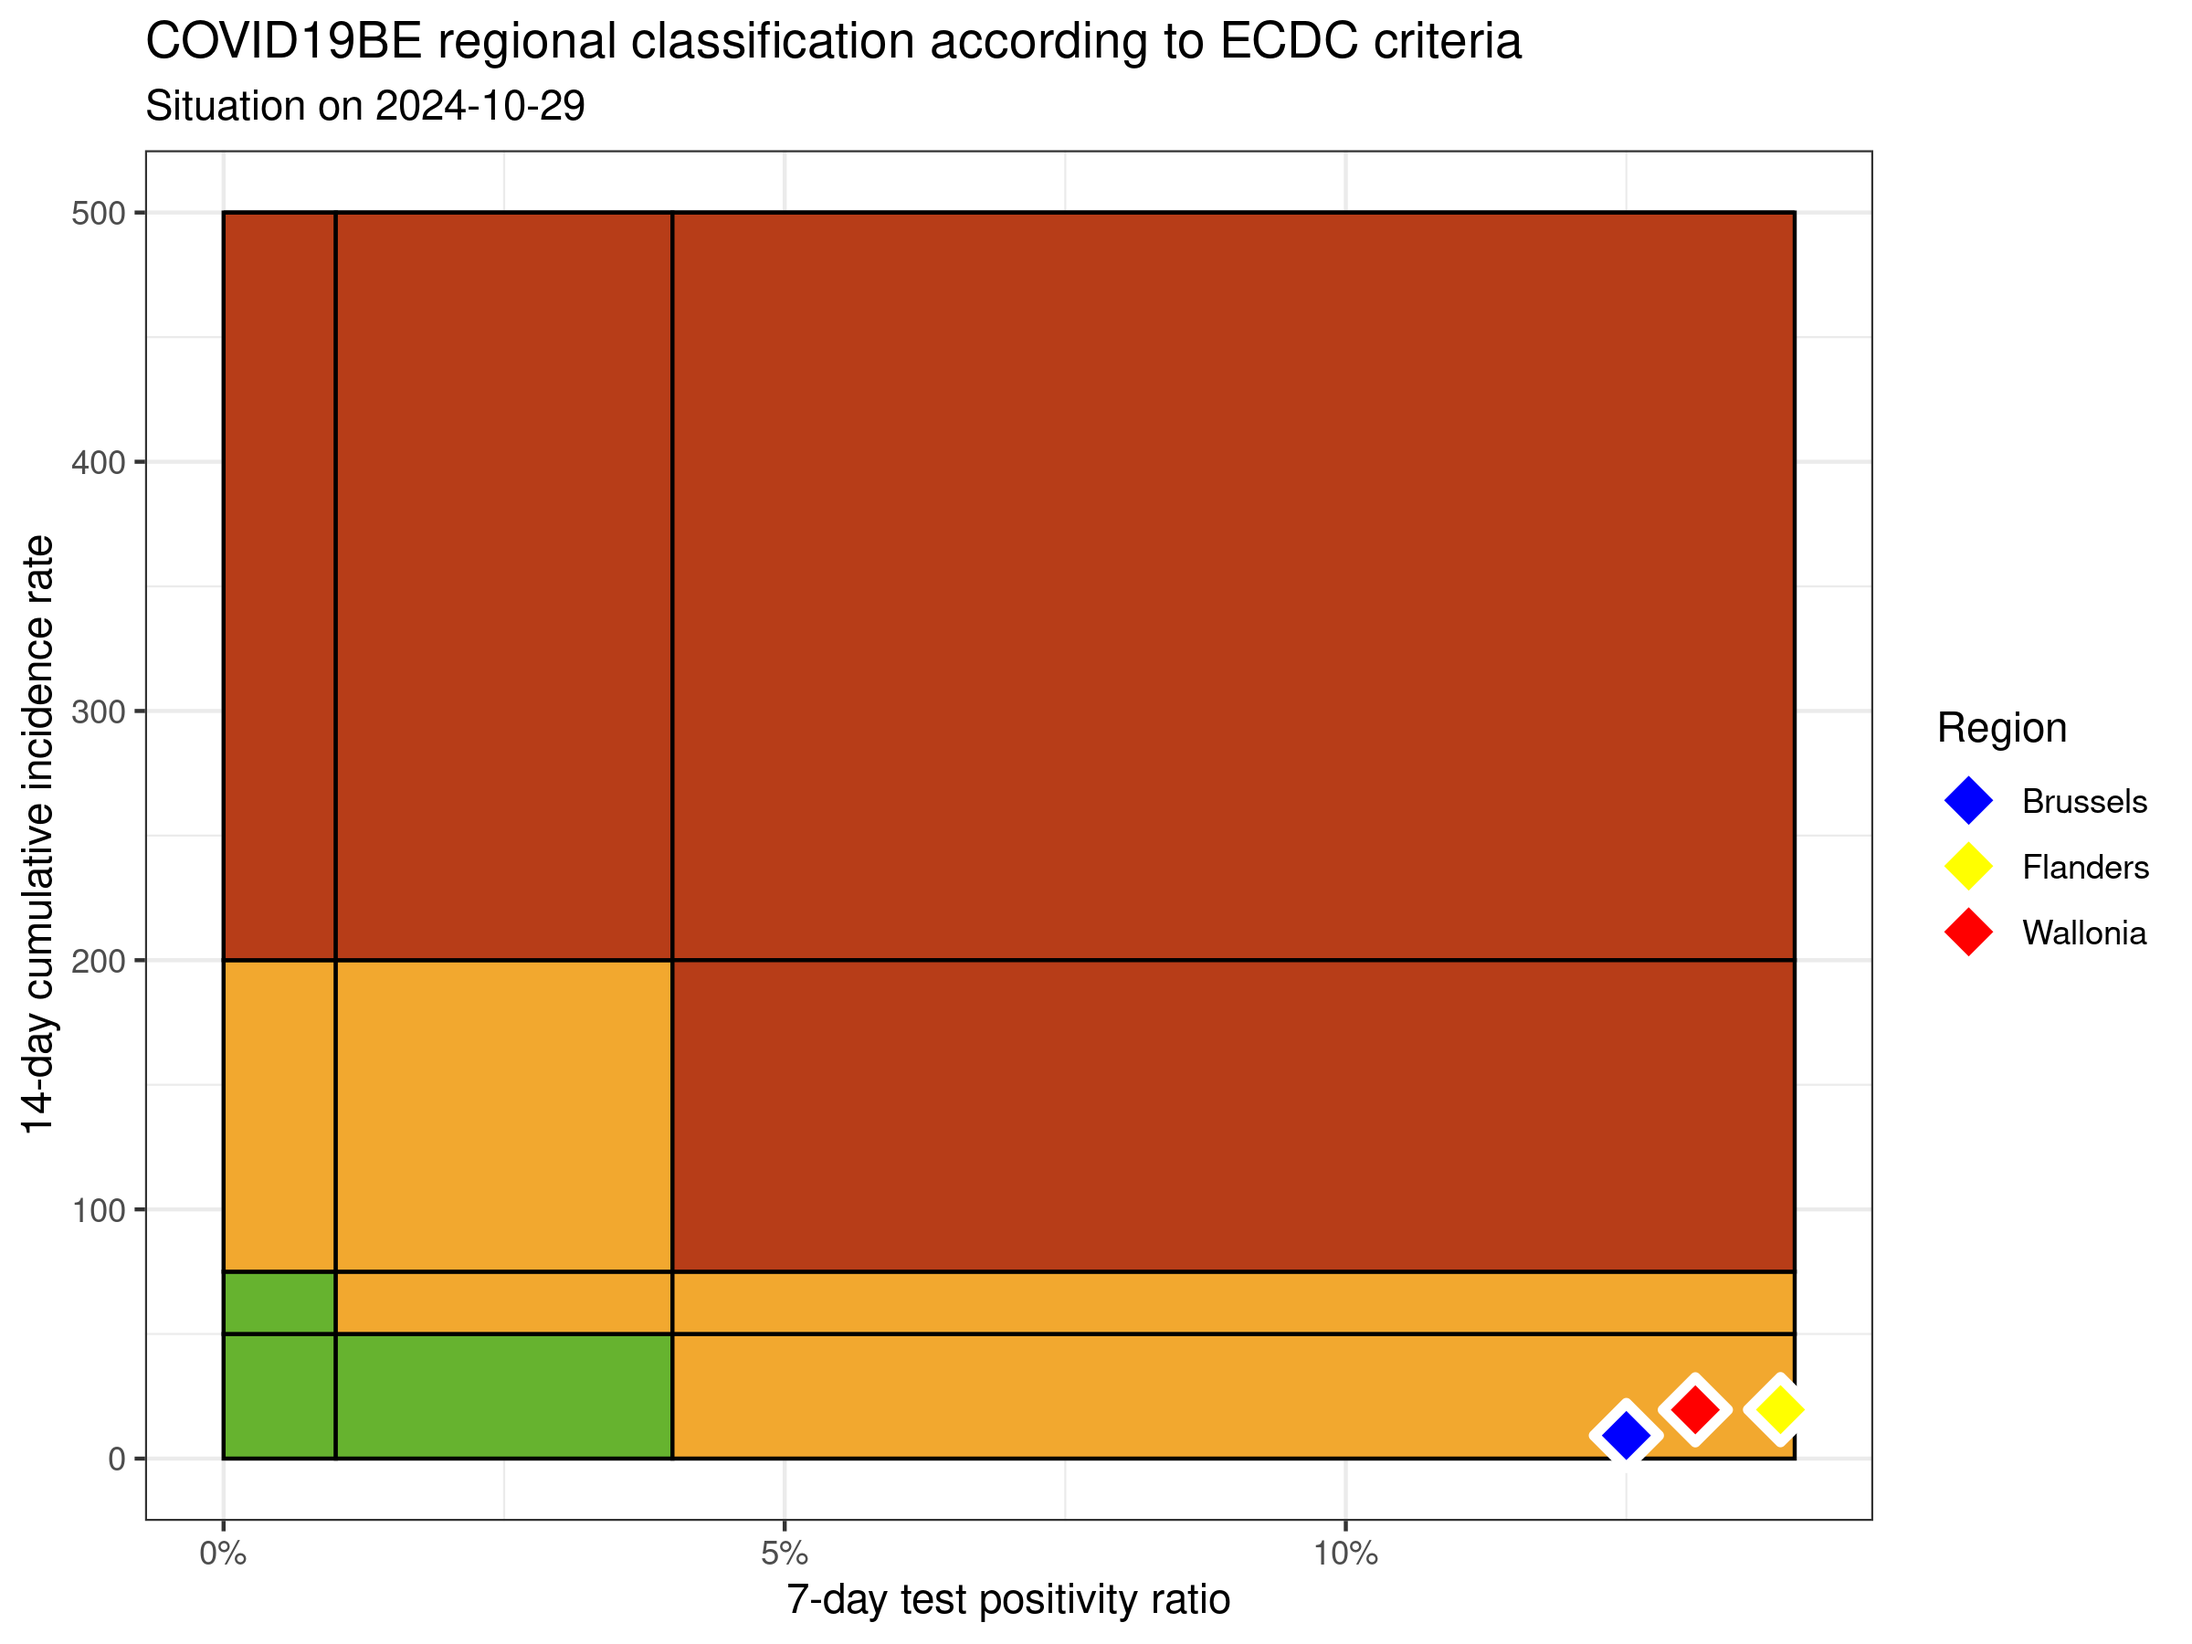
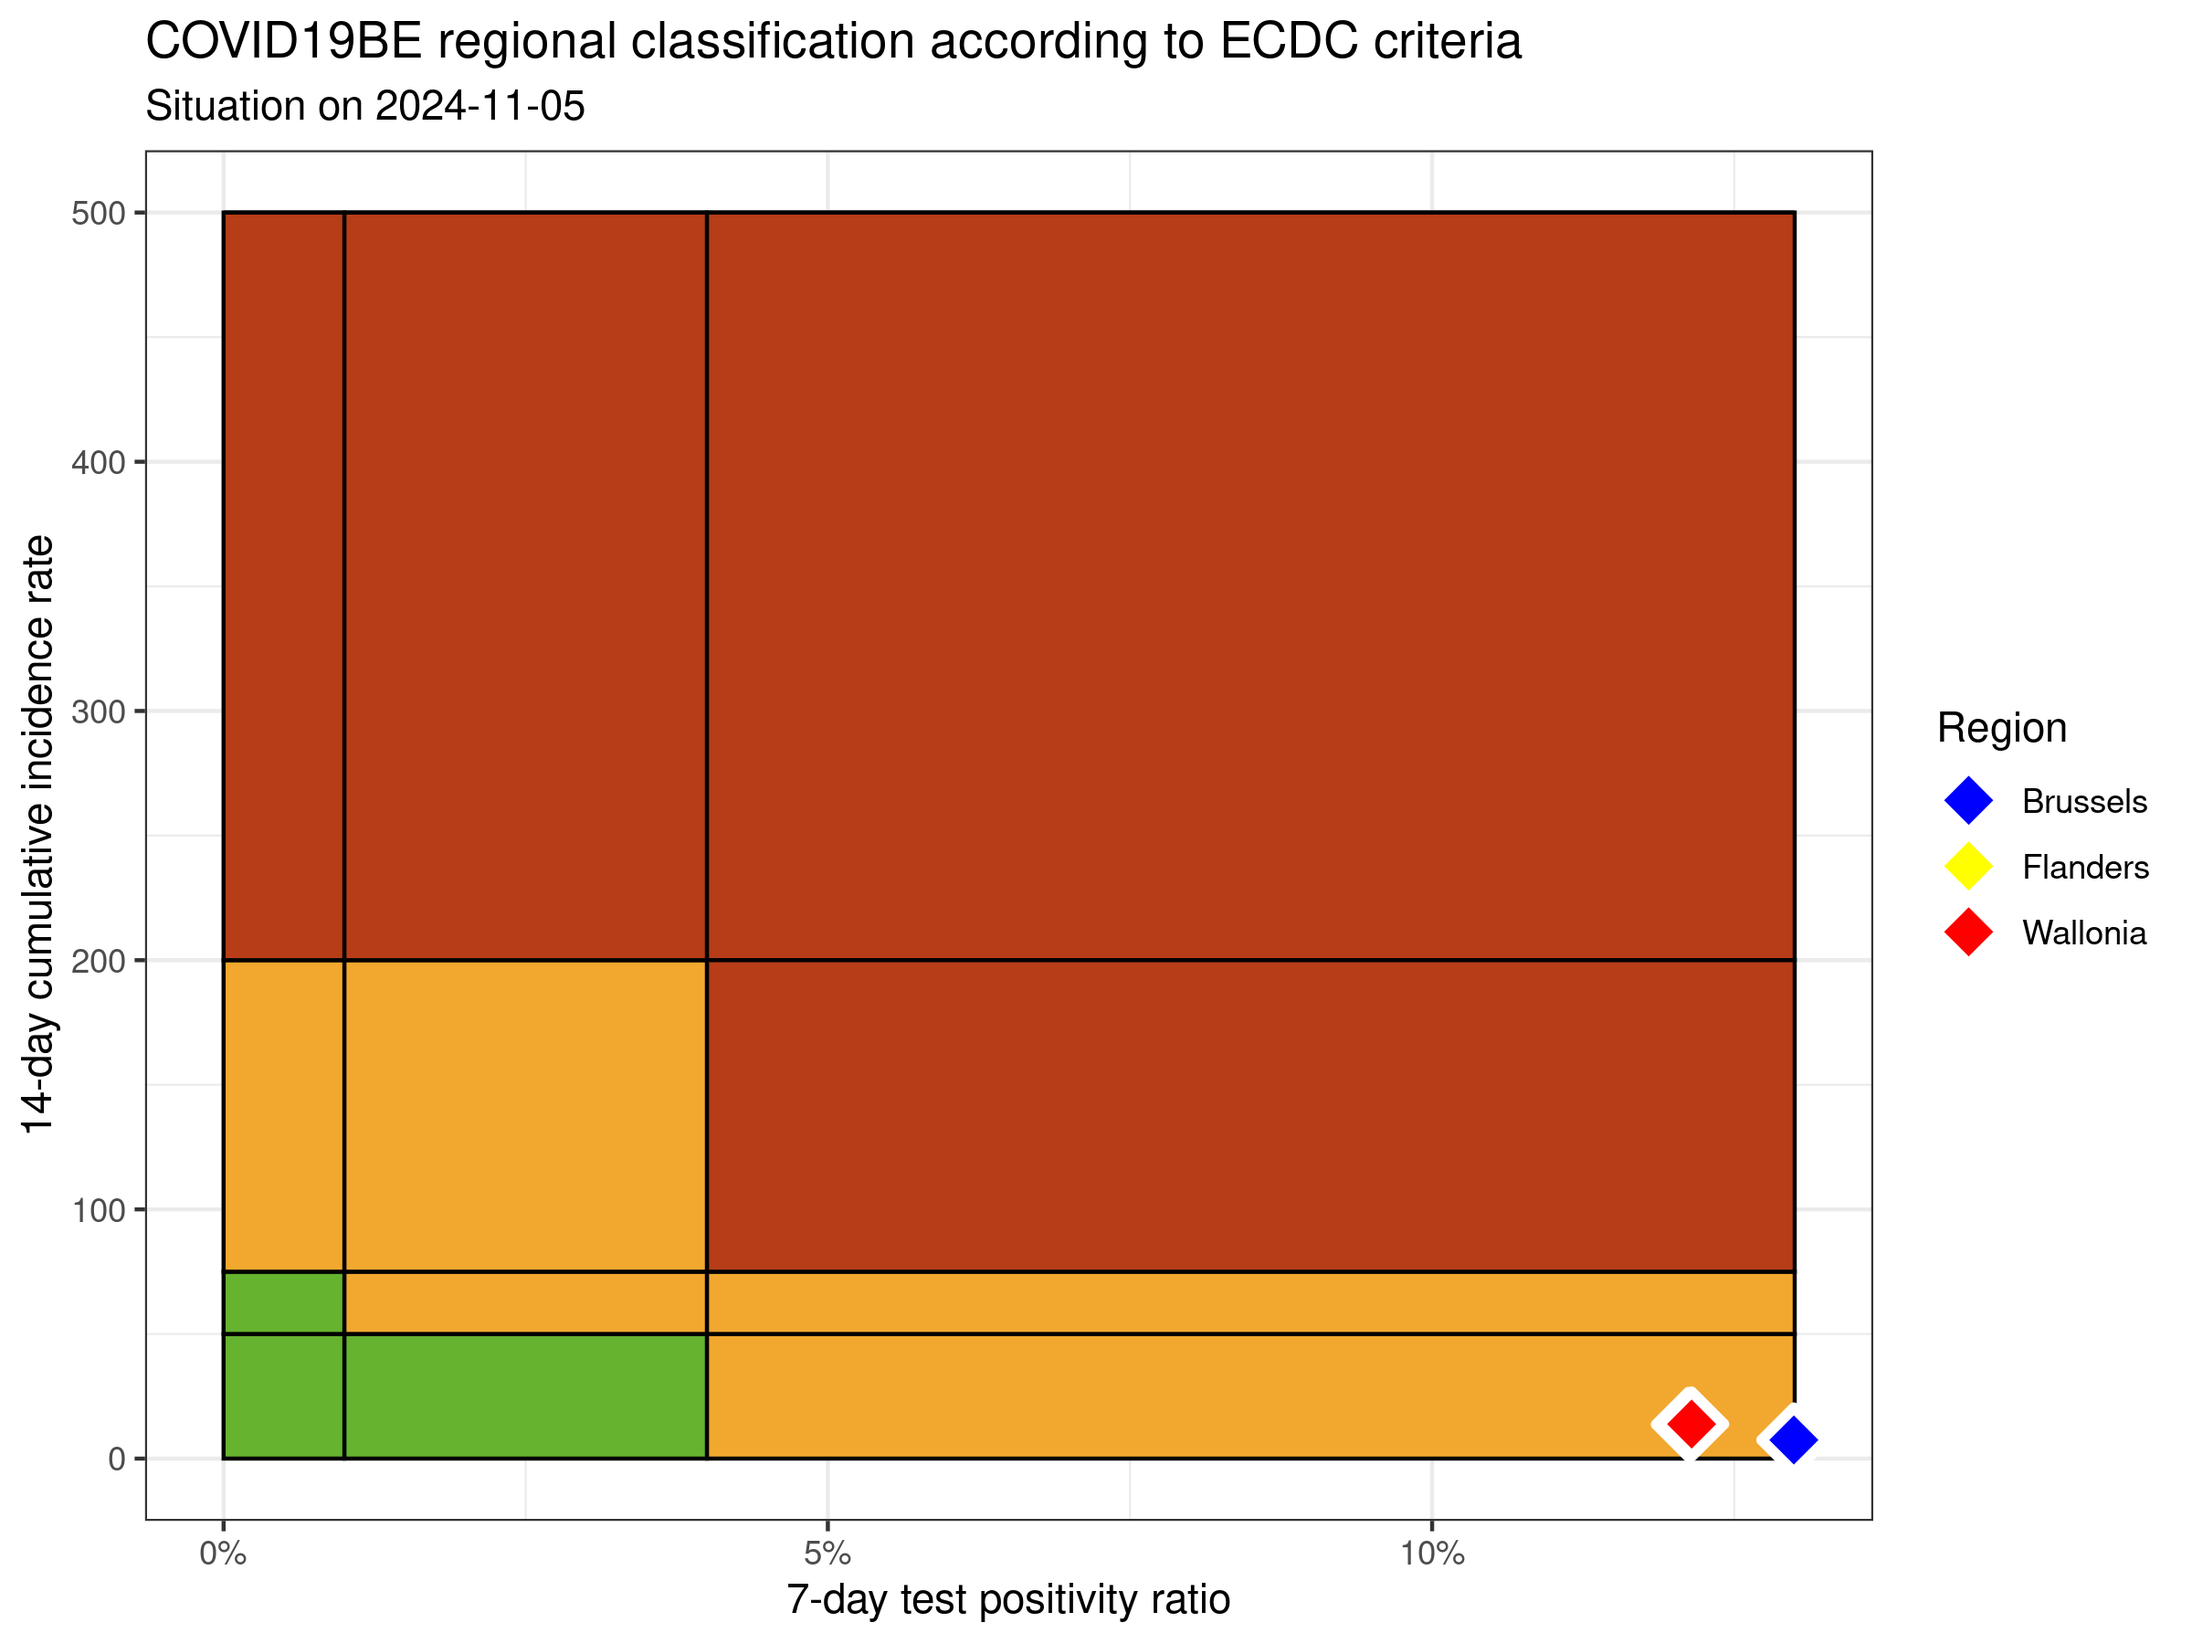
update situation

diff --git a/ecdc-trend/README.md b/ecdc-trend/README.md
@@ -11,9 +11,9 @@
 
 |          | INC14 | INC7 | TST7 | TST\_POS7 | REGION   |     POP | INC14\_RT |       PR7 |          GR |
 | :------- | ----: | ---: | ---: | --------: | :------- | ------: | --------: | --------: | ----------: |
-| Brussels |   113 |   44 |  488 |        61 | Brussels | 1219970 |  9.262523 | 0.1250000 | \-0.3623188 |
-| Flanders |  1306 |  550 | 5269 |       731 | Flanders | 6653062 | 19.630059 | 0.1387360 | \-0.2724868 |
-| Wallonia |   714 |  282 | 2684 |       352 | Wallonia | 3648206 | 19.571263 | 0.1311475 | \-0.3472222 |
+| Brussels |    91 |   47 |  431 |        56 | Brussels | 1219970 |   7.45920 | 0.1299304 |   0.0681818 |
+| Flanders |   911 |  361 | 4381 |       531 | Flanders | 6653062 |  13.69294 | 0.1212052 | \-0.3436364 |
+| Wallonia |   505 |  221 | 2338 |       284 | Wallonia | 3648206 |  13.84242 | 0.1214713 | \-0.2218310 |
 
 ### Read more
 
